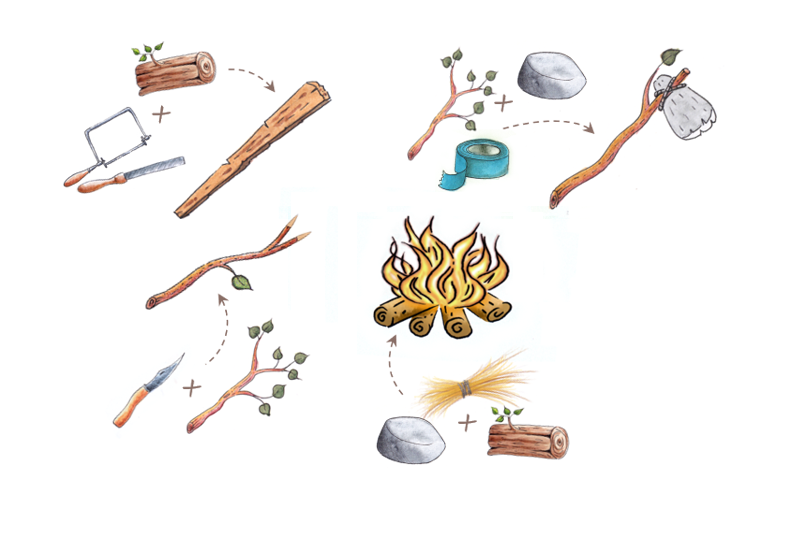
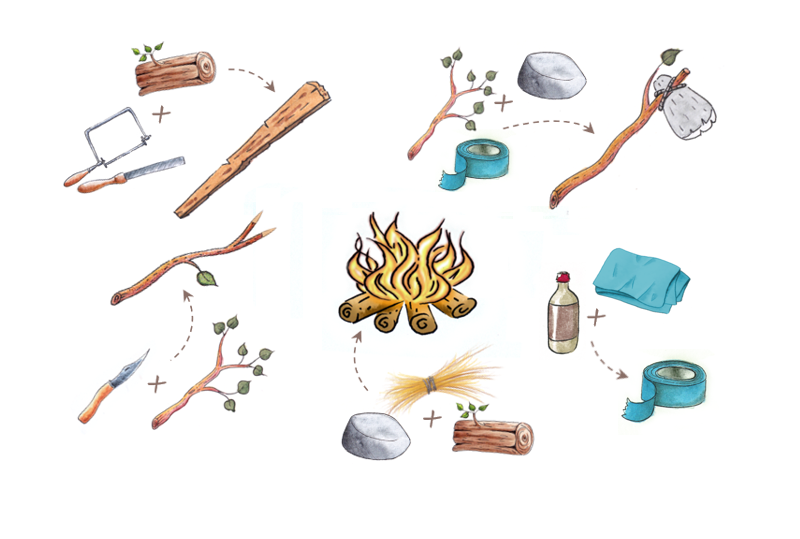
new crafting: tape

diff --git a/index.html b/index.html
@@ -191,7 +191,7 @@
         <ul id="actions" class="active">
           <li class="inventory"><span>Inventory (<em id="inventory-numbers">0</em>)</span></li>
           <li class="craft"><span>Craft (<em id="crafting-total">0</em>)</span></li>
-          <li class="mixed"><span class="countdown">Day <em id="gametime-days">1</em></span><span class="seperator">⬦</span><span class="time" id="gametime-hours"></span></li>
+          <li class="mixed day"><span class="countdown">Day <em id="gametime-days">1</em></span><span class="seperator">⬦</span><span class="time" id="gametime-hours"></span></li>
           <li class="map"><span>Map</span></li>
           <li class="settings"><span>Game Editor<!--Settings--></span></li>
         </ul>
@@ -213,6 +213,7 @@
             <div class="button-craft" data-item="improvised-axe" data-action="improvise an axe"><span class="material-symbols-outlined locked">lock</span>Craft</div>
             <div class="button-craft" data-item="fireplace" data-action="build a fireplace"><span class="material-symbols-outlined locked">lock</span>Build</div>
             <div class="button-craft" data-item="sharp-stick" data-action="carve sharp stick"><span class="material-symbols-outlined locked">lock</span>Carve</div>
+            <div class="button-craft" data-item="tape" data-action="craft tape"><span class="material-symbols-outlined locked">lock</span>Craft</div>
           </div>
           <p class="info"></p>
         </div>
@@ -285,23 +286,25 @@
       </p>
       <p class="screen__paragraph">
         When your character Attacks a zombie, other zombies in that area will join the battle.
-        <strong>Avoid fighting against more than one Zombie in the beginning of the game!</strong>
+        <strong>Avoid fighting against more than one Zombie in the beginning!</strong>
       </p>
       <p class="screen__paragraph">
-        Try to Lure single zombies into a fight (there is a dedicated action with a 50-50 chance), to make the battle easier. When you walk right into a Zombie, they will attack you first.
+        Lure single zombies into a fight (chance is 50:50), to make the battle easier. Zombie will attack you first, when you walk right into them.
       </p>
       <p class="screen__paragraph">
-        Once battle starts, <strong>all your inventory items turn into a Battle Card deck</strong>. The item properties change - each now has red Attack and blue Defense values.
-        Make sure you have enough items at hand that allow killing the Zombie.
+        Once the battle starts, <strong>all your inventory items turn into a Battle Card deck</strong>. Each item now has orange Attack and blue Defense values.
+        Make sure you have enough items at hand before starting a fight.
       </p>
       <p class="screen__paragraph">
-        Drag a Card over a Zombie to deal damage and to shield yourself. Each action consumes one Action Point and <strong>the used item will permanently be removed from your inventory</strong>.
+        Drag a Card over a Zombie to deal damage and to shield yourself. Each action consumes one Action Point. <strong>The item will permanently be removed from your inventory</strong>.
       </p>
       <p class="screen__paragraph">
-        Fighting rats comes with an extra challenge. They steal food items from your characters inventory to increase their health. Within very few rounds, rats can become pretty strong - fight them only when you can kill all of them in a few turns.
+          <!--
+          Fighting rats comes with an extra challenge. They steal food items from your characters inventory to increase their health. Within very few rounds, rats can become pretty strong - fight them only when you can kill all of them in a few turns.
+          -->
         <strong>Good luck!</strong>
       </p>
-      <p class="screen__paragraph align--center">
+      <p class="screen__paragraph align--center spacing--top">
         <span class="button half--width card-tutorial-confirm">Got it!</span>
       </p>
     </div>

diff --git a/js/items.js b/js/items.js
@@ -21,6 +21,8 @@ export default {
     Props.addToInventory('pepper', 1);
     Props.addToInventory('sharp-stick', 0);
 
+    Props.addToInventory('bones', 1);
+    Props.addToInventory('cloth', 1);
     /*
     Props.addToInventory('mushroom-1', 1);
     Props.addToInventory('sharp-stick', 1);
@@ -73,7 +75,7 @@ export default {
     if (inventory.items[item]) {
       return true;
     } else if (item === 'drink-1-2') {
-      if (inventory.items['drink-1'] || inventory.items['drink-2'] > 0) {
+      if (inventory.items['drink-1'] || inventory.items['drink-2']) {
         return true;
       }  
     } else  if (item === 'mushroom-1-2') {
@@ -133,6 +135,12 @@ export default {
       if (item === 'sharp-stick') {
         Props.addToInventory('sharp-stick', 1);
         Props.addToInventory('branch', -1);
+        this.inventoryChangeFeedback();
+        this.fillInventorySlots();
+      } else if (item === 'tape') {
+        Props.addToInventory('tape', 1);
+        Props.addToInventory('glue', -1);
+        Props.addToInventory('cloth', -1);
         this.inventoryChangeFeedback();
         this.fillInventorySlots();
       } else if (item === 'fireplace') {
@@ -207,6 +215,11 @@ export default {
       craftContainer.querySelector('.button-craft[data-item="sharp-stick"]').classList.add('active');
       totalCrafting++;
     }
+    // tape
+    if (inventory.items['cloth']?.amount > 0 && inventory.items['glue']?.amount > 0) {
+      craftContainer.querySelector('.button-craft[data-item="tape"]').classList.add('active');
+      totalCrafting++;
+    }
     if (totalCrafting !== crafting.total) {
       crafting.total = totalCrafting;
       this.craftingChangeFeedback();
@@ -218,6 +231,8 @@ export default {
       item === "hacksaw" ||
       item === "stump" ||
       item === "tape" ||
+      item === "glue" ||
+      item === "cloth" ||
       item === "branch" ||
       item === "stone" ||
       item === "straw-wheet" ||

diff --git a/js/cooking.js b/js/cooking.js
@@ -39,6 +39,7 @@ export default {
         Items.fillItemSlot(cardRef.querySelectorAll('.slot.item-' + cookingRecipes[recipe][1]), (Items.inventoryItemAmount(cookingRecipes[recipe][1]) || 0));
       }
       if (Items.inventoryKnows(cookingRecipes[recipe][0]) && Items.inventoryKnows(cookingRecipes[recipe][1])) {
+        console.log(recipe);
         cardRef.querySelector('.slot.action.item-' + recipe)?.classList.remove('unknown');
         if (!Items.inventoryContains(cookingRecipes[recipe][0]) || !Items.inventoryContains(cookingRecipes[recipe][1])) {
           cardRef.querySelector('.slot.action.item-' + recipe)?.classList.remove('active');
